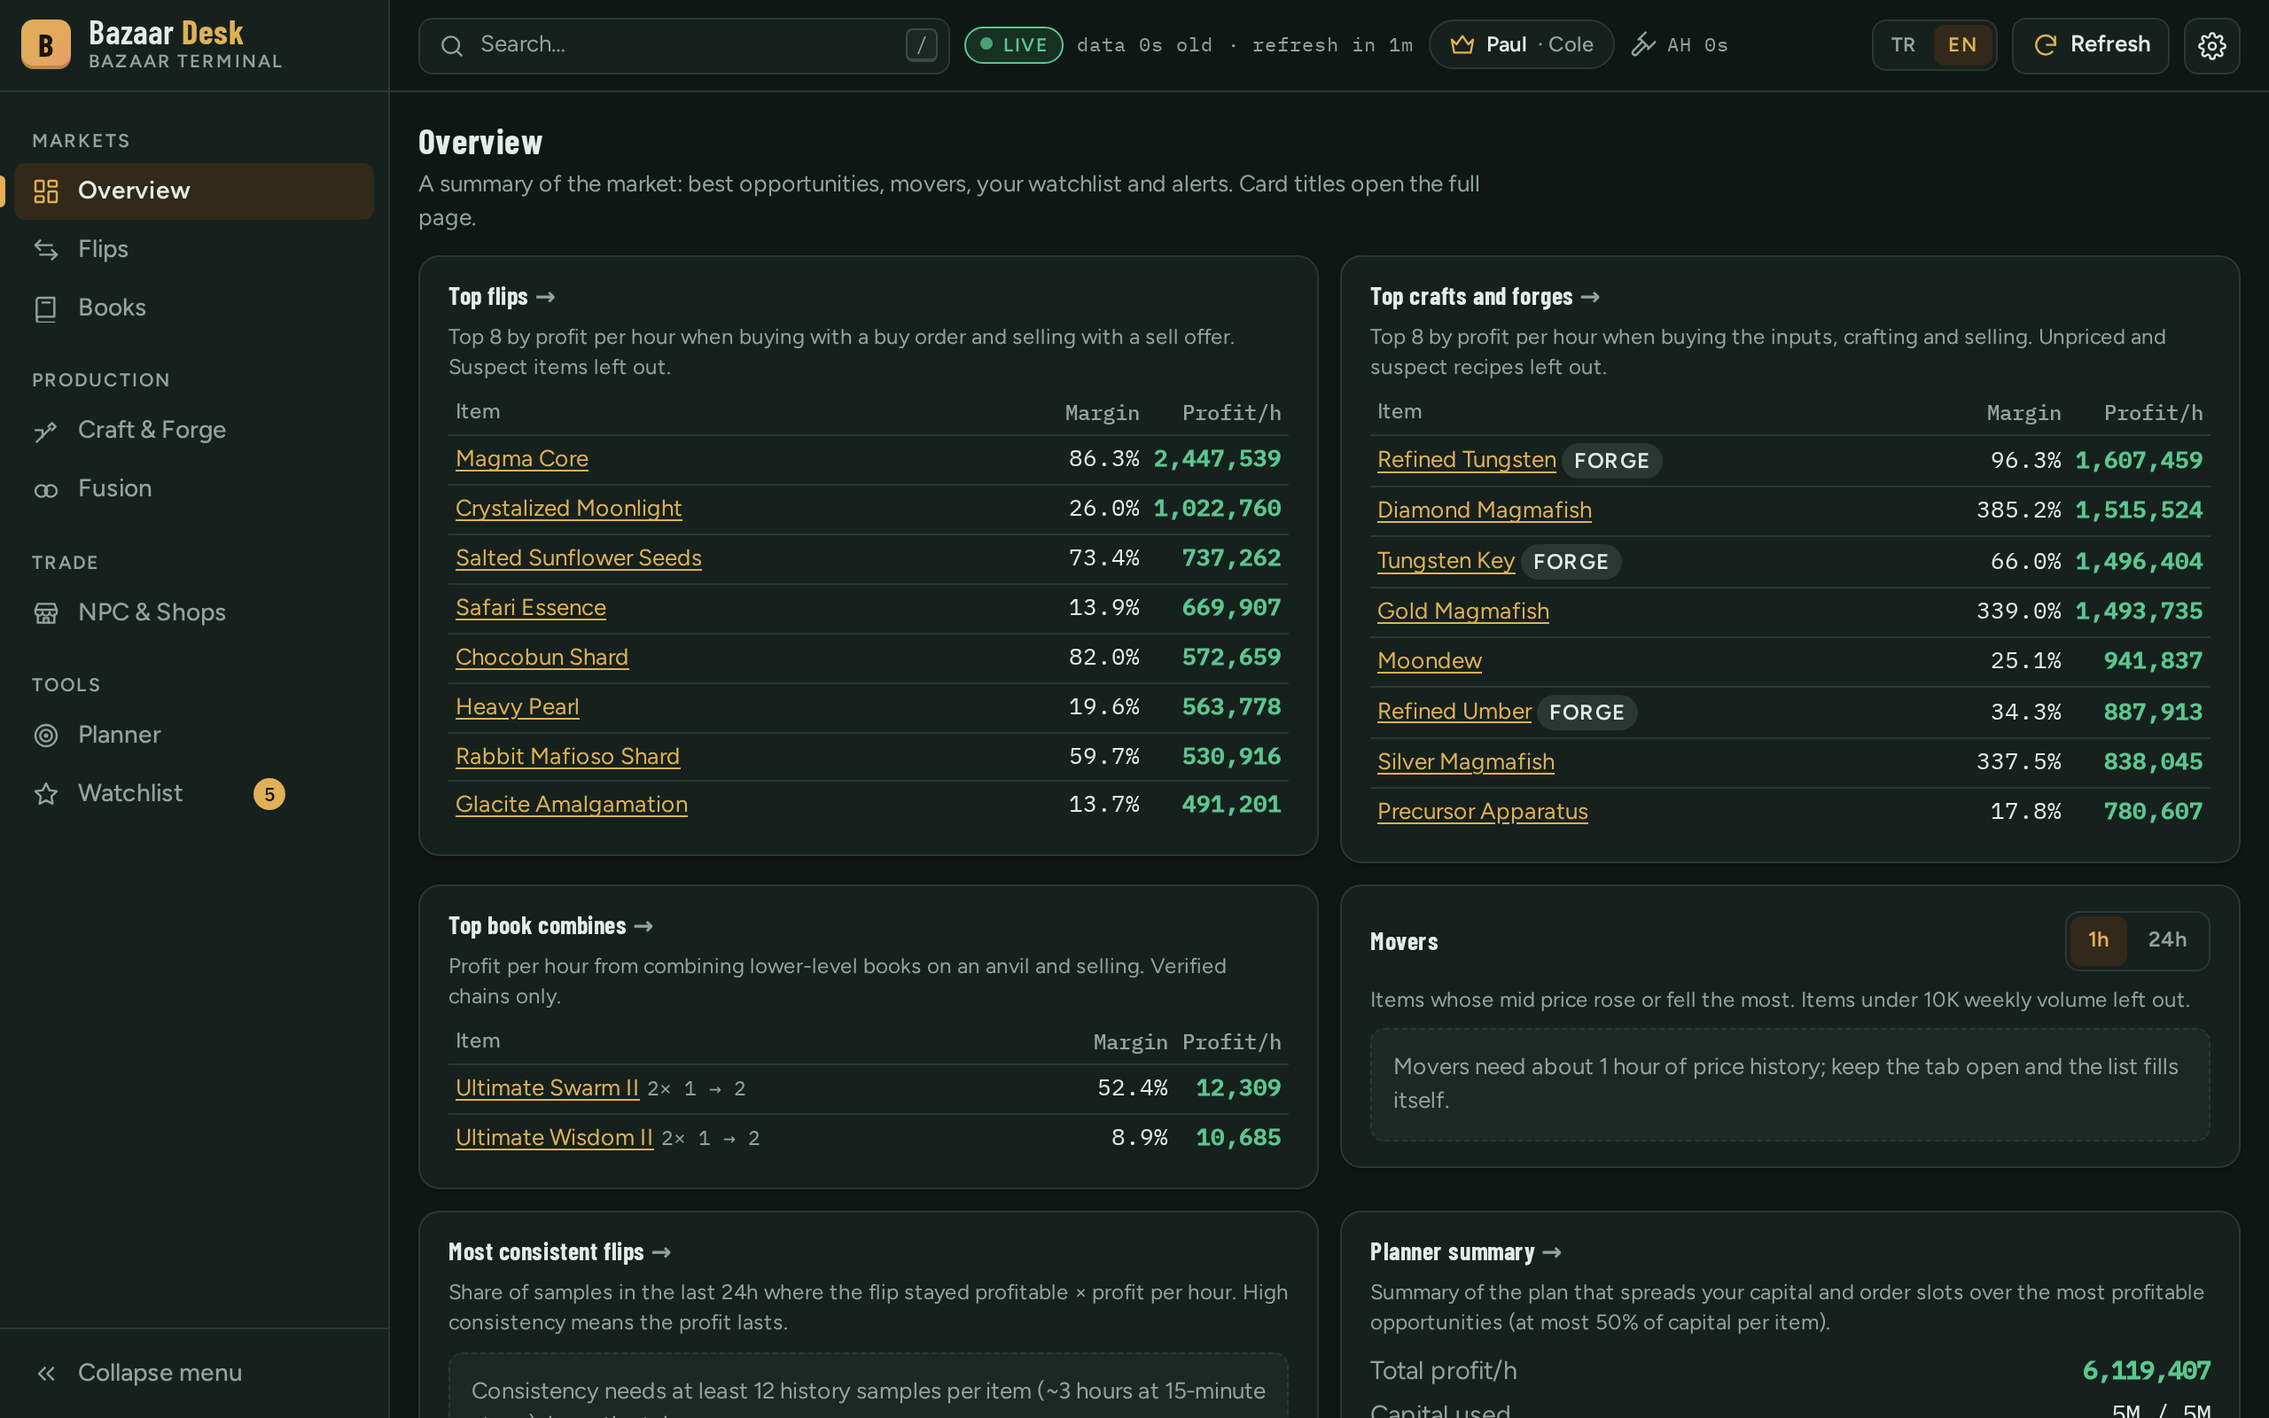
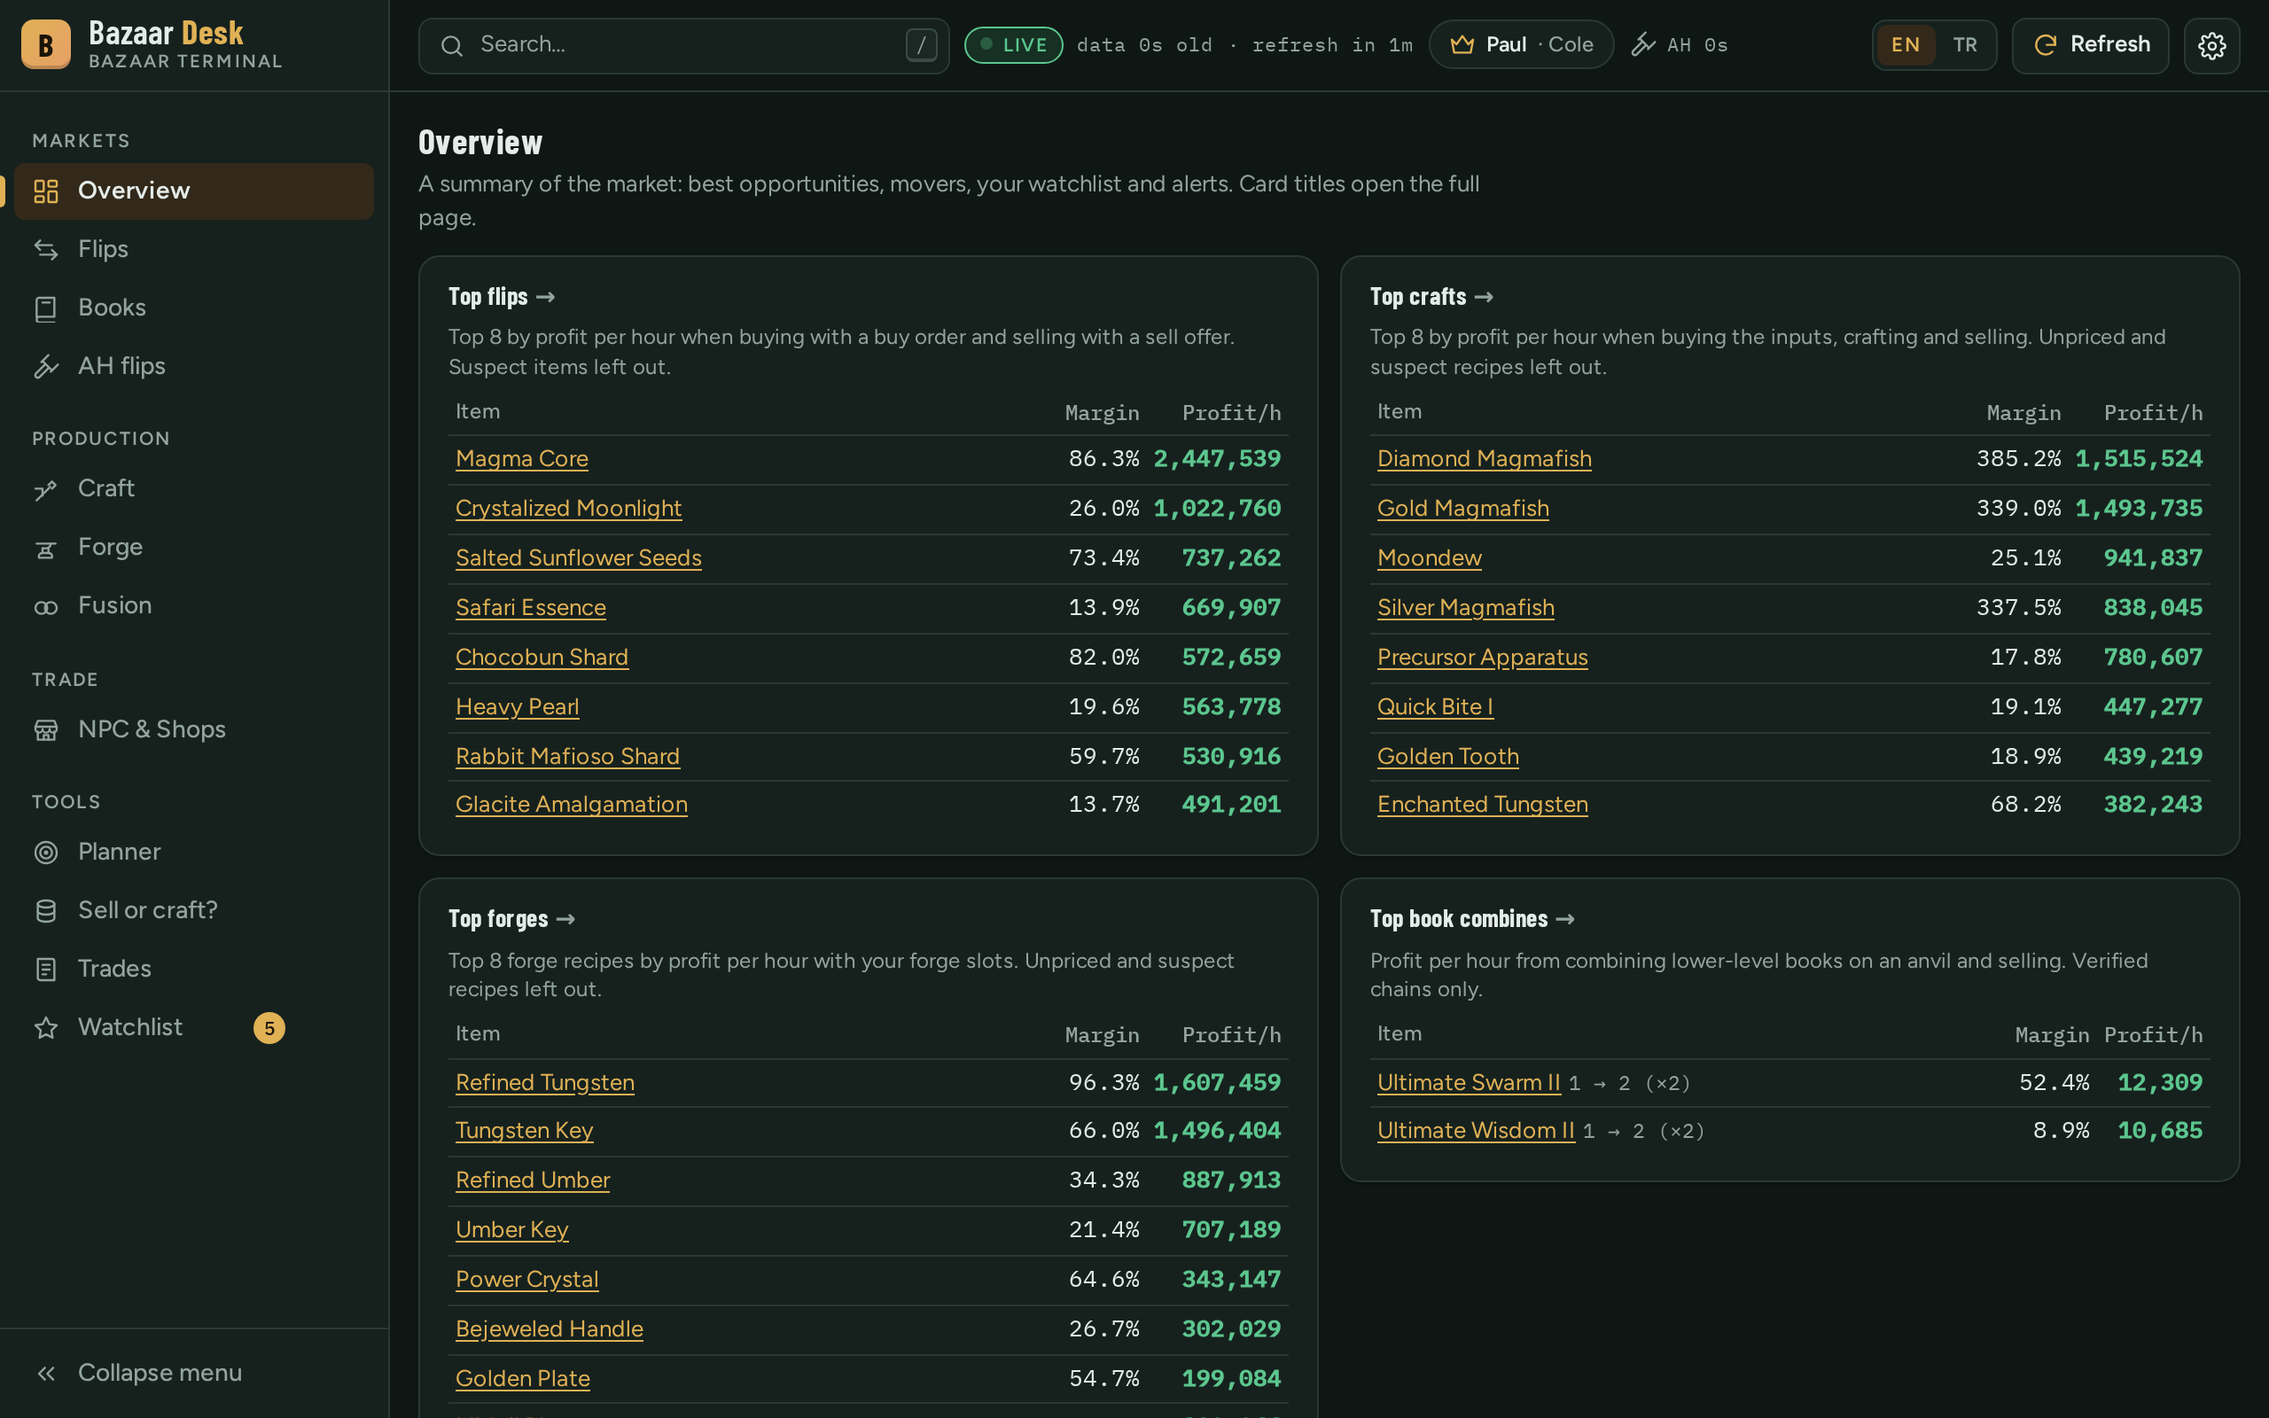
🆎

diff --git a/scripts/screenshots.ts b/scripts/screenshots.ts
@@ -7,7 +7,7 @@ import type { ChildProcess } from 'node:child_process';
 import { existsSync, mkdirSync } from 'node:fs';
 import { join } from 'node:path';
 import { chromium, type Browser, type Page, type Route } from 'playwright-core';
-import { LS_SETTINGS, LS_WATCH } from '../src/config.ts';
+import { LS_JOURNAL, LS_ORDERS, LS_SELL, LS_SETTINGS, LS_WATCH } from '../src/config.ts';
 import { findBrowser, freePort, loadSmokeFixtures, ROOT, sleep, startServer, withNow } from './lib/browser.ts';
 
 const OUT = join(ROOT, 'docs', 'images');
@@ -19,7 +19,7 @@ type Theme = 'dark' | 'light';
 /** The images README.md uses; every page is still visited, only these are written. */
 const USED = new Set([
   'overview-dark', 'overview-light', 'flip-detail-dark', 'planner-dark', 'craft-dark', 'item-dark', 'watchlist-dark',
-  'palette-light', 'mobile-overview-dark', 'mobile-flips-dark',
+  'palette-light', 'mobile-overview-dark', 'mobile-flips-dark', 'chains-dark', 'sell-dark', 'trades-dark', 'journal-dark',
 ]);
 
 const FIX = loadSmokeFixtures();
@@ -43,14 +43,34 @@ async function openPage(browser: Browser, base: string, theme: Theme, viewport: 
   const context = await browser.newContext({ viewport, deviceScaleFactor: 2, locale: 'en-US', serviceWorkers: 'block', colorScheme: theme });
   await context.route('**/*', stub);
   const now = Date.now();
+  const H = 3600_000;
+  // example data for the Sell or craft? and Trades pages (fixture prices: Ench. Gold 456.2 / 509.8, Wheat 3.4 / 5.6)
+  const seed: Record<string, unknown> = {
+    [LS_SETTINGS]: { lang: 'en', theme },
+    [LS_WATCH]: WATCH.map((id, i) => ({ id, addedAt: now - i * 60_000 })),
+    [LS_SELL]: [
+      { id: 'WHEAT', qty: 60_000 },
+      { id: 'ENCHANTED_CARROT', qty: 2_000 },
+    ],
+    [LS_ORDERS]: [
+      { key: 'o1', id: 'ENCHANTED_GOLD', side: 'buy', price: 455, qty: 1_200, placedAt: now - 20 * 60_000 },
+      { key: 'o2', id: 'ENCHANTED_GOLD', side: 'sell', price: 509.8, qty: 640, placedAt: now - 5 * 60_000, cost: 456 },
+      { key: 'o3', id: 'ENCHANTED_CARROT', side: 'buy', price: 451.8, qty: 2_000, placedAt: now - 2 * H },
+    ],
+    [LS_JOURNAL]: [
+      { key: 'j1', id: 'ENCHANTED_GOLD', qty: 1_200, buy: 456.3, sell: 509.7, tax: 0.0125, fees: 0, at: now - 1 * H, source: 'order' },
+      { key: 'j2', id: 'MAGMA_FISH', qty: 20_000, buy: 4.2, sell: 9.5, tax: 0.0125, fees: 0, at: now - 26 * H, source: 'manual' },
+      { key: 'j3', id: 'ENCHANTED_CARROT', qty: 4_000, buy: 452, sell: 470, tax: 0.0125, fees: 0, at: now - 50 * H, source: 'plan' },
+      { key: 'j4', id: 'ROUGH_RUBY_GEM', qty: 50_000, buy: 0.7, sell: 0.6, tax: 0.0125, fees: 0, at: now - 80 * H, source: 'manual' },
+    ],
+  };
   await context.addInitScript(
-    ([lsSettings, lsWatch, theme, watch]) => {
+    ([lsSettings, seed]) => {
       // only on the first load, so the app's own writes survive navigation
       if (localStorage.getItem(lsSettings)) return;
-      localStorage.setItem(lsSettings, JSON.stringify({ lang: 'en', theme }));
-      localStorage.setItem(lsWatch, JSON.stringify(watch));
+      for (const [k, v] of Object.entries(seed)) localStorage.setItem(k, JSON.stringify(v));
     },
-    [LS_SETTINGS, LS_WATCH, theme, WATCH.map((id, i) => ({ id, addedAt: now - i * 60_000 }))] as const,
+    [LS_SETTINGS, seed] as const,
   );
   const page = await context.newPage();
   page.setDefaultTimeout(T);
@@ -99,6 +119,20 @@ async function desktop(browser: Browser, base: string, theme: Theme): Promise<vo
   await shot(page, `watchlist-${theme}`);
   await go(page, '#/item/ENCHANTED_GOLD', '[data-testid="order-book"] tbody tr');
   await shot(page, `item-${theme}`);
+
+  await go(page, '#/craft?view=chains', '.chains-view tbody tr[data-key]');
+  await page.locator('.chains-view tbody tr[data-key]').first().locator('td.num').last().click();
+  await page.locator('.chain-detail').waitFor({ state: 'visible' });
+  await page.evaluate(() => document.querySelectorAll('#view *').forEach((el) => el.scrollLeft && (el.scrollLeft = 0)));
+  await sleep(400);
+  await shot(page, `chains-${theme}`);
+  await page.keyboard.press('Escape');
+  await go(page, '#/sell', '.sell-card');
+  await shot(page, `sell-${theme}`);
+  await go(page, '#/trades', '.trades-orders tbody tr[data-key]');
+  await shot(page, `trades-${theme}`);
+  await go(page, '#/trades?view=journal', '.trades-journal tbody tr[data-key]');
+  await shot(page, `journal-${theme}`);
 
   await go(page, '#/overview');
   await page.keyboard.press('/');

diff --git a/src/ui/views/trades/tradesView.ts b/src/ui/views/trades/tradesView.ts
@@ -11,6 +11,7 @@ import { esc } from '../../dom.ts';
 import { fmtAge, fmtCoins, fmtHours, fmtInt, fmtPct } from '../../format.ts';
 import { createKitTable, downloadJson, type KitColumn, type KitTableHandle } from '../../kit/index.ts';
 import { fmtQty } from '../craft/helpers.ts';
+import { fmtPrice } from '../item/helpers.ts';
 import './trades.css';
 
 type Tab = 'orders' | 'journal';
@@ -51,8 +52,8 @@ function orderColumns(): KitColumn<OrderRow>[] {
       html: (r) =>
         `<a href="#/item/${encodeURIComponent(r.o.id)}">${esc(r.name)}</a><span class="id-sub">${esc(t(r.o.side === 'buy' ? 'trades.sideBuy' : 'trades.sideSell'))} · ${esc(fmtQty(r.o.qty))}×</span>`,
     },
-    { key: 'price', label: () => t('trades.col_price'), get: (r) => r.o.price, align: 'right', priority: 1, html: (r) => esc(fmtCoins(r.o.price)) },
-    { key: 'best', label: () => t('trades.col_best'), get: (r) => r.st.best, align: 'right', priority: 2, html: (r) => (r.st.best == null ? '—' : esc(fmtCoins(r.st.best))) },
+    { key: 'price', label: () => t('trades.col_price'), get: (r) => r.o.price, align: 'right', priority: 1, html: (r) => esc(fmtPrice(r.o.price)) },
+    { key: 'best', label: () => t('trades.col_best'), get: (r) => r.st.best, align: 'right', priority: 2, html: (r) => (r.st.best == null ? '—' : esc(fmtPrice(r.st.best))) },
     {
       key: 'status',
       label: () => t('trades.col_status'),
@@ -84,7 +85,7 @@ function orderColumns(): KitColumn<OrderRow>[] {
 }
 
 function journalColumns(cat: () => Catalog | null): KitColumn<JournalEntry>[] {
-  const coins = (k: 'buy' | 'sell' | 'fees') => (e: JournalEntry) => esc(fmtCoins(e[k]));
+  const coins = (k: 'buy' | 'sell' | 'fees') => (e: JournalEntry) => esc(k === 'fees' ? fmtCoins(e[k]) : fmtPrice(e[k]));
   return [
     {
       key: 'date',
@@ -195,7 +196,7 @@ export function createTradesView(): View {
     else if (action === 'reprice' && r.st.reprice != null) {
       const price = r.st.reprice;
       ctx!.store.set({ orders: s.orders.map((o) => (o.key === r.o.key ? { ...o, price, lastStatus: 'top' } : o)) });
-      ctx!.toast(t('trades.repriceDone', { price: fmtCoins(price) }), 'ok');
+      ctx!.toast(t('trades.repriceDone', { price: fmtPrice(price) }), 'ok');
     } else if (action === 'filled') {
       ctx!.store.set({ orders: s.orders.filter((o) => o.key !== r.o.key) });
       if (r.o.side === 'buy') {
@@ -240,8 +241,10 @@ export function createTradesView(): View {
     const items = byItem(s.journal);
     const list = (xs: typeof items) => xs.map((x) => `<li><span>${esc(nameOf(s.catalog, x.id))}</span> <strong class="${x.profit >= 0 ? 'pos' : 'neg'}">${esc(fmtCoins(x.profit))}</strong></li>`).join('');
     $('.trades-items').innerHTML = items.length
-      ? `<div><h3>${esc(t('trades.bestItems'))}</h3><ol>${list(items.slice(0, 3))}</ol></div>` +
-        (items.length > 3 ? `<div><h3>${esc(t('trades.worstItems'))}</h3><ol>${list(items.slice(-3).reverse())}</ol></div>` : '')
+      ? `<div><h3>${esc(t('trades.bestItems'))}</h3><ol>${list(items.filter((x) => x.profit > 0).slice(0, 3))}</ol></div>` +
+        (items.some((x) => x.profit < 0)
+          ? `<div><h3>${esc(t('trades.worstItems'))}</h3><ol>${list(items.filter((x) => x.profit < 0).slice(-3).reverse())}</ol></div>`
+          : '')
       : '';
     journalTable!.setRows(s.journal);
   }
@@ -368,7 +371,7 @@ export function createTradesView(): View {
         toolbar: { columns: true, exportName: 'my-orders' },
         rowActions: (r) =>
           (r.st.reprice != null && r.st.kind !== 'top'
-            ? `<button type="button" class="btn btn-sm" data-action="reprice">${esc(t('trades.reprice', { price: fmtCoins(r.st.reprice) }))}</button>`
+            ? `<button type="button" class="btn btn-sm" data-action="reprice">${esc(t('trades.reprice', { price: fmtPrice(r.st.reprice) }))}</button>`
             : '') +
           `<button type="button" class="btn btn-sm" data-action="filled">${esc(t('trades.filled'))}</button>` +
           `<button type="button" class="btn btn-ghost btn-sm" data-action="remove" aria-label="${esc(`${t('trades.remove')}: ${r.name}`)}" title="${esc(t('trades.remove'))}">×</button>`,

diff --git a/src/state/ordersRunner.ts b/src/state/ordersRunner.ts
@@ -3,7 +3,7 @@
 import { lostTop, orderStatus } from '../domain/orders.ts';
 import { t } from '../i18n/index.ts';
 import type { AppState, Store, ToastKind } from '../types/contracts.ts';
-import { fmtCoins } from '../ui/format.ts';
+import { fmtPrice } from '../ui/views/item/helpers.ts';
 
 export interface OrdersRunnerOptions {
   store: Store<AppState>;
@@ -13,7 +13,7 @@ export interface OrdersRunnerOptions {
 
 /** Order-alert text: "Enchanted Gold: your buy order at 100 was outbid (best now 100.1)". */
 export function orderAlertText(name: string, side: 'buy' | 'sell', price: number, best: number | null): { title: string; body: string } {
-  const body = t(side === 'buy' ? 'trades.alertOutbid' : 'trades.alertUndercut', { name, price: fmtCoins(price), best: best == null ? '—' : fmtCoins(best) });
+  const body = t(side === 'buy' ? 'trades.alertOutbid' : 'trades.alertUndercut', { name, price: fmtPrice(price), best: best == null ? '—' : fmtPrice(best) });
   return { title: t('trades.alertTitle', { name }), body };
 }
 

diff --git a/src/ui/views/sell/sell.css b/src/ui/views/sell/sell.css
@@ -63,8 +63,11 @@
 .sell-tbl {
   width: 100%;
 }
-.sell-tbl th.name-cell {
-  font-weight: normal;
+.sell-tbl tbody th.name-cell {
+  font: inherit;
+  text-transform: none;
+  letter-spacing: normal;
+  color: inherit;
 }
 .sell-tbl tr.sell-best > * {
   background: var(--good-soft);

diff --git a/README.md b/README.md
@@ -56,9 +56,23 @@ Find flips, crafts, forges and book combines, then let the planner spread your c
       Track items, set price or margin rules and get notified. History is kept for 7 days in your browser.
     </td>
   </tr>
+  <tr>
+    <td valign="top">
+      <h3>🔗 Craft chains</h3>
+      Multi-step ladders (Wheat → Ench. Wheat → Ench. Hay Bale, gem tiers, Magmafish…): where to start and where to sell.
+    </td>
+    <td valign="top">
+      <h3>💰 Sell or craft?</h3>
+      Enter what you own and compare insta-sell, sell offer, NPC, AH and crafting it up first.
+    </td>
+    <td valign="top">
+      <h3>📒 Trades</h3>
+      Track your own orders (outbid / undercut alerts, re-price) and log finished trades with profit per day and ROI.
+    </td>
+  </tr>
 </table>
 
-Plus NPC flips, currency-shop values (bits, copper, motes, …), shard-fusion recipes, risk flags on suspicious markets, a command palette, keyboard-first navigation, a mobile layout and an English / Turkish UI.
+Plus AH flips (lowest BIN vs the next, after AH fees), a separate Forge page, market alerts for any opportunity, an installable offline app, NPC flips, currency-shop values (bits, copper, motes, …), shard-fusion recipes, risk flags on suspicious markets, a command palette, keyboard-first navigation, a mobile layout and an English / Turkish UI.
 
 ## 📸 Screenshots
 
@@ -74,6 +88,14 @@ Plus NPC flips, currency-shop values (bits, copper, motes, …), shard-fusion re
   <tr>
     <td><img src="docs/images/palette-light.png" alt="Command palette in the light theme"><p align="center"><b>Command palette</b> (<kbd>/</kbd>), shown in the light theme</p></td>
     <td><img src="docs/images/watchlist-dark.png" alt="Watchlist"><p align="center"><b>Watchlist</b>: live prices and alert rules</p></td>
+  </tr>
+  <tr>
+    <td><img src="docs/images/chains-dark.png" alt="Craft chains"><p align="center"><b>Craft chains</b>: a whole ladder with the step-by-step plan</p></td>
+    <td><img src="docs/images/sell-dark.png" alt="Sell or craft?"><p align="center"><b>Sell or craft?</b>: every way to cash out, best first</p></td>
+  </tr>
+  <tr>
+    <td><img src="docs/images/trades-dark.png" alt="My orders"><p align="center"><b>My orders</b>: top, tied, outbid or undercut, live</p></td>
+    <td><img src="docs/images/journal-dark.png" alt="Trade journal"><p align="center"><b>Trade journal</b>: profit today, this week and all time</p></td>
   </tr>
 </table>
 
@@ -200,6 +222,7 @@ npm test               # unit tests (vitest)
 npm run build          # typecheck + production build
 npm run smoke          # headless browser test of the build
 npm run screenshots    # regenerate the images in this README
+npm run pwa:check      # offline check of the installable app (after GITHUB_PAGES=1 npm run build)
 ```
 
 Scripts, data sources, storage keys, project layout and deployment are documented in **[docs/development.md](docs/development.md)**.

diff --git a/docs/development.md b/docs/development.md
@@ -25,7 +25,9 @@ If live fetching fails, there are two fallbacks:
 | `npm run data` | Rebuilds `public/data/catalog.json` from the NEU repo, the Hypixel items API, the bazaar product list and `scripts/data/book-rules.json`. `npm run data -- --offline` reads only the cache and fetches nothing |
 | `npm run sanity` | Runs the domain layer against the live bazaar and the generated catalog, and checks the results. `npm run sanity -- --offline` reads the cached bazaar instead |
 | `npm run smoke` | Headless browser test of the built app (run `npm run build` first). It serves fixture data by default; `npm run smoke -- --live` uses the real API. It finds Chromium through `CHROME_PATH` or Playwright's cached browser |
-| `npm run screenshots` | Captures the README screenshots into `docs/images/` (run `npm run build` first). Uses the smoke fixtures, English UI, dark and light theme |
+| `npm run screenshots` | Captures the README screenshots into `docs/images/` (run `npm run build` first). Uses the smoke fixtures, English UI, dark and light theme, and example data for the Sell or craft? and Trades pages |
+| `npm run icons` | Renders `public/icons/icon.svg` to the PNG app icons (192, 512, maskable 512, 180 for iOS) |
+| `npm run pwa:check` | Offline check of the installable app: loads the Pages build once, stops the server, reloads (run `GITHUB_PAGES=1 npm run build` first) |
 | `npm run fixture` | Captures `tests/fixtures/bazaar.json`. `-- --smoke [--offline]` writes the smoke fixtures (bazaar, one AH page, election) |
 | `npm run check:owners -- <wave> <agent> [branch] [base]` | Fails if a branch touched files outside its globs in `scripts/ownership.json` (base defaults to `round2`) |
 
